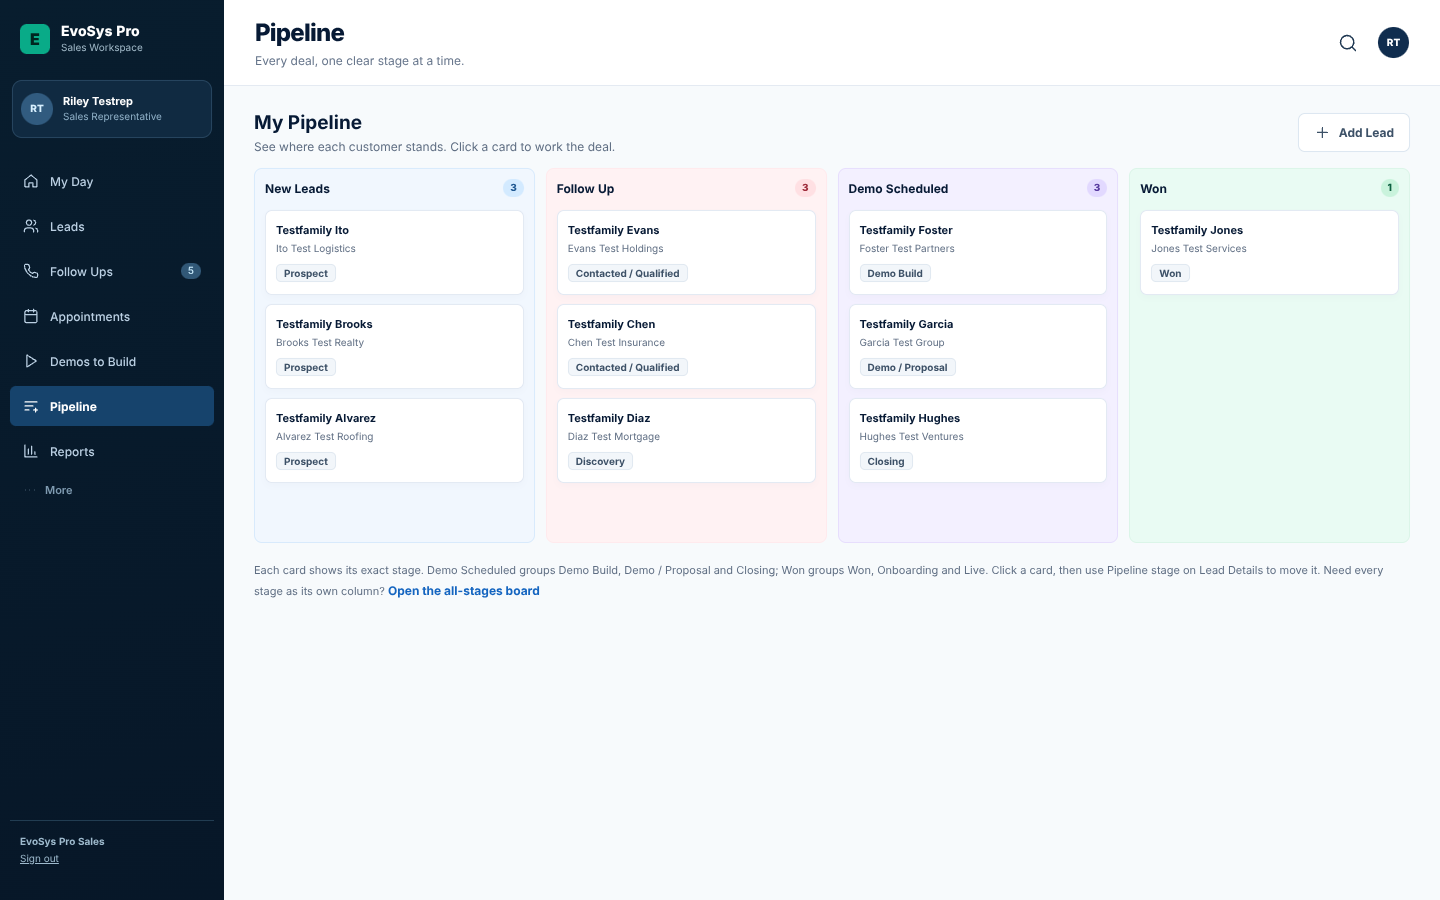
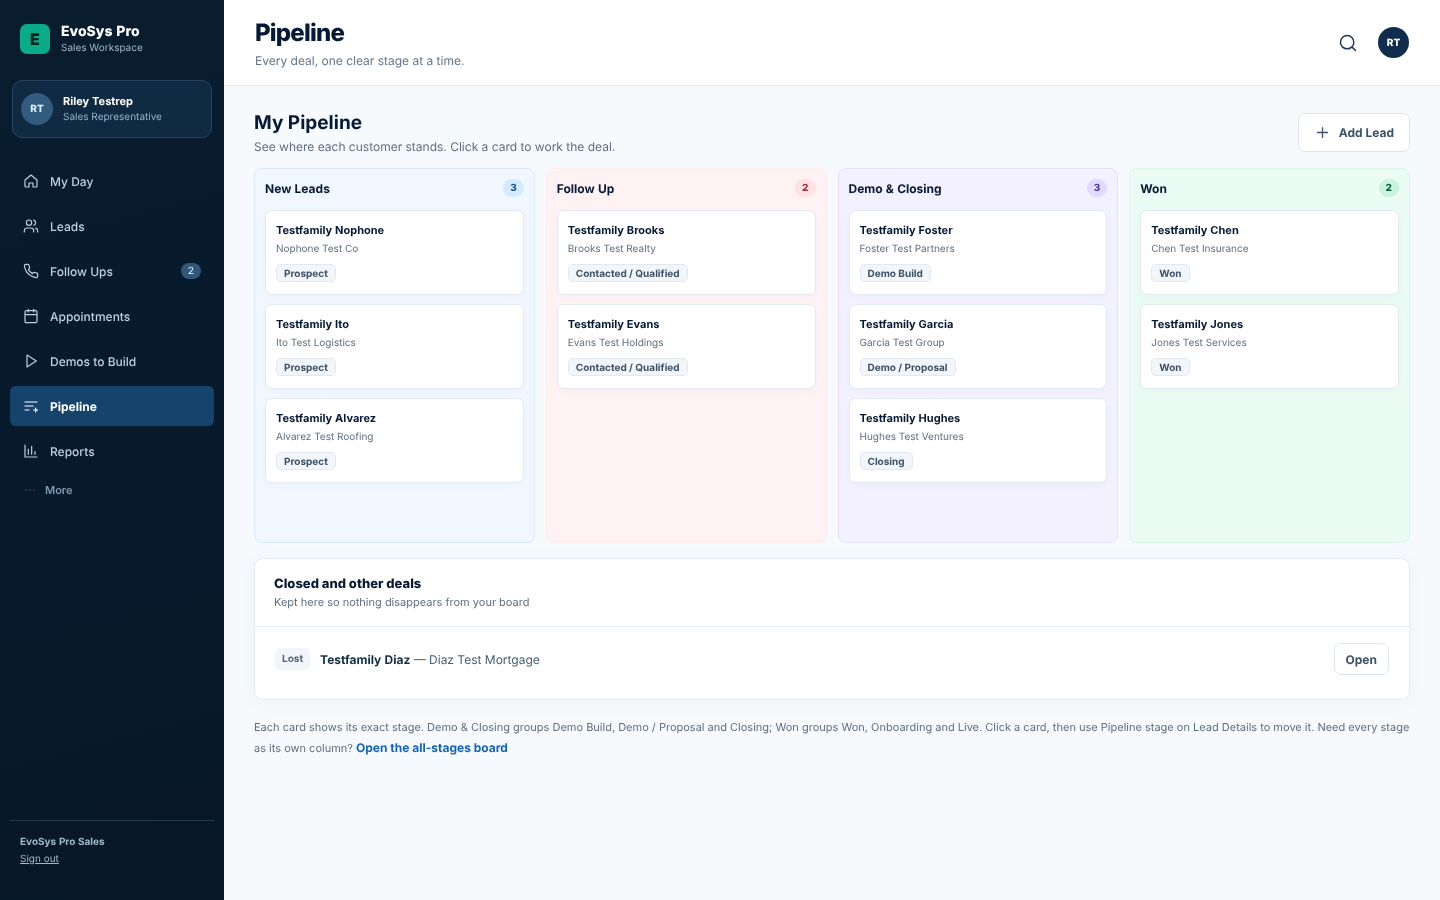
Pipeline: rename column "Demo Scheduled" -> "Demo & Closing" (owner-approved label)
Approved by Mike 2026-10-21 12:26 CDT. Label only: the column heading, its
footnote, and the Book a Demo "Move to ..." link and confirmation. Same
stages (demo_build, demo_proposal, closing), data, permissions and behaviour.
Test fixture, e2e step names, spec and the five screenshots showing the label
updated.

Tests: salesSimple 24/24; local end-to-end 81/81 on this build.

Claude-Session: https://claude.ai/code/session_019ndCEYVXqqKySjtjJm33gq

diff --git a/frontend/src/pages/sales/BookDemo.jsx b/frontend/src/pages/sales/BookDemo.jsx
@@ -165,10 +165,10 @@ function BookDemoBody() {
             {opp && EARLY.includes(opp.stage) && !moved && (
               <div className="ss-callout" style={{ marginBottom: 14 }}>
                 {opp.contact_name || opp.company_name} is still in <strong>{opp.stage_label}</strong>.
-                {' '}<button type="button" className="ss-link" onClick={moveToDemo}>Move to Demo Scheduled</button>
+                {' '}<button type="button" className="ss-link" onClick={moveToDemo}>Move to Demo &amp; Closing</button>
               </div>
             )}
-            {moved && <div className="ss-okbar">Moved to Demo Scheduled (Demo / Proposal).</div>}
+            {moved && <div className="ss-okbar">Moved to Demo &amp; Closing (Demo / Proposal).</div>}
             <div className="ss-actrow" style={{ display: 'flex', gap: 8, flexWrap: 'wrap' }}>
               <button type="button" className="ss-btn ss-blue" onClick={() => nav('/sales/appointments?date=' + date)}>
                 <Icon name="calendar" /> See it in Appointments

diff --git a/frontend/src/pages/sales/SimplePipeline.jsx b/frontend/src/pages/sales/SimplePipeline.jsx
@@ -119,7 +119,7 @@ function PipelineBody() {
             </section>
           )}
           <p className="ss-footnote">
-            Each card shows its exact stage. Demo Scheduled groups Demo Build, Demo / Proposal and Closing;
+            Each card shows its exact stage. Demo &amp; Closing groups Demo Build, Demo / Proposal and Closing;
             Won groups Won, Onboarding and Live. Click a card, then use Pipeline stage on Lead Details to move it.
             Need every stage as its own column?{' '}
             <button type="button" className="ss-link" onClick={() => nav('/sales/pipeline/stages')}>Open the all-stages board</button>

diff --git a/frontend/src/pages/sales/simpleSales.js b/frontend/src/pages/sales/simpleSales.js
@@ -39,7 +39,7 @@ export const SIMPLE_COLUMNS = [
     hint: 'Not reached yet' },
   { key: 'follow', label: 'Follow Up',      stages: ['contacted', 'discovery'],
     hint: 'Talking, learning what they need' },
-  { key: 'demo',   label: 'Demo Scheduled', stages: ['demo_build', 'demo_proposal', 'closing'],
+  { key: 'demo',   label: 'Demo & Closing', stages: ['demo_build', 'demo_proposal', 'closing'],
     hint: 'Demo, proposal or closing' },
   { key: 'won',    label: 'Won',            stages: ['won', 'onboarding', 'live'],
     hint: 'Sold — onboarding takes over' },

diff --git a/docs/redesign/SALES_WORKSPACE_SPEC.md b/docs/redesign/SALES_WORKSPACE_SPEC.md
@@ -30,7 +30,7 @@ manager's **MY TEAM** group is unchanged.
 |---|---|
 | New Leads | prospect |
 | Follow Up | contacted, discovery |
-| Demo Scheduled | demo_build, demo_proposal, closing |
+| Demo & Closing | demo_build, demo_proposal, closing |
 | Won | won, onboarding, live |
 
 Lost and any unknown stage are listed under the board. Every card shows its
@@ -87,11 +87,10 @@ activity feed. Covered by `tests/test_sales_my_day_scope.py` (20 deals worked
 
 **Pipeline** — one **+ Add Lead** (header); the per-column buttons are gone. Every
 card shows its exact stage (Prospect, Contacted / Qualified, Discovery, Demo Build,
-Demo / Proposal, Closing, Won, Onboarding, Live), so a Closing deal under *Demo
-Scheduled* is never read as "a demo is booked". The footnote names which stages
-each column groups. *Proposal, not implemented:* if Mike wants the column title
-itself to be literal, rename "Demo Scheduled" → "Demo & Closing" — a one-word
-label change, held for his approval because it departs from the approved image.
+Demo / Proposal, Closing, Won, Onboarding, Live), so a Closing deal under *Demo &
+Closing* is never read as "a demo is booked". The footnote names which stages
+each column groups. **Column renamed "Demo Scheduled" → "Demo & Closing"** — approved by Mike
+2026-10-21 12:26 CDT (label only; stages, data and permissions unchanged).
 
 **Follow Ups** — filters **Due Now | Overdue | Today | Completed**, each with its
 count; heading **People to Contact Now**, "Overdue first, then today's follow-ups."
